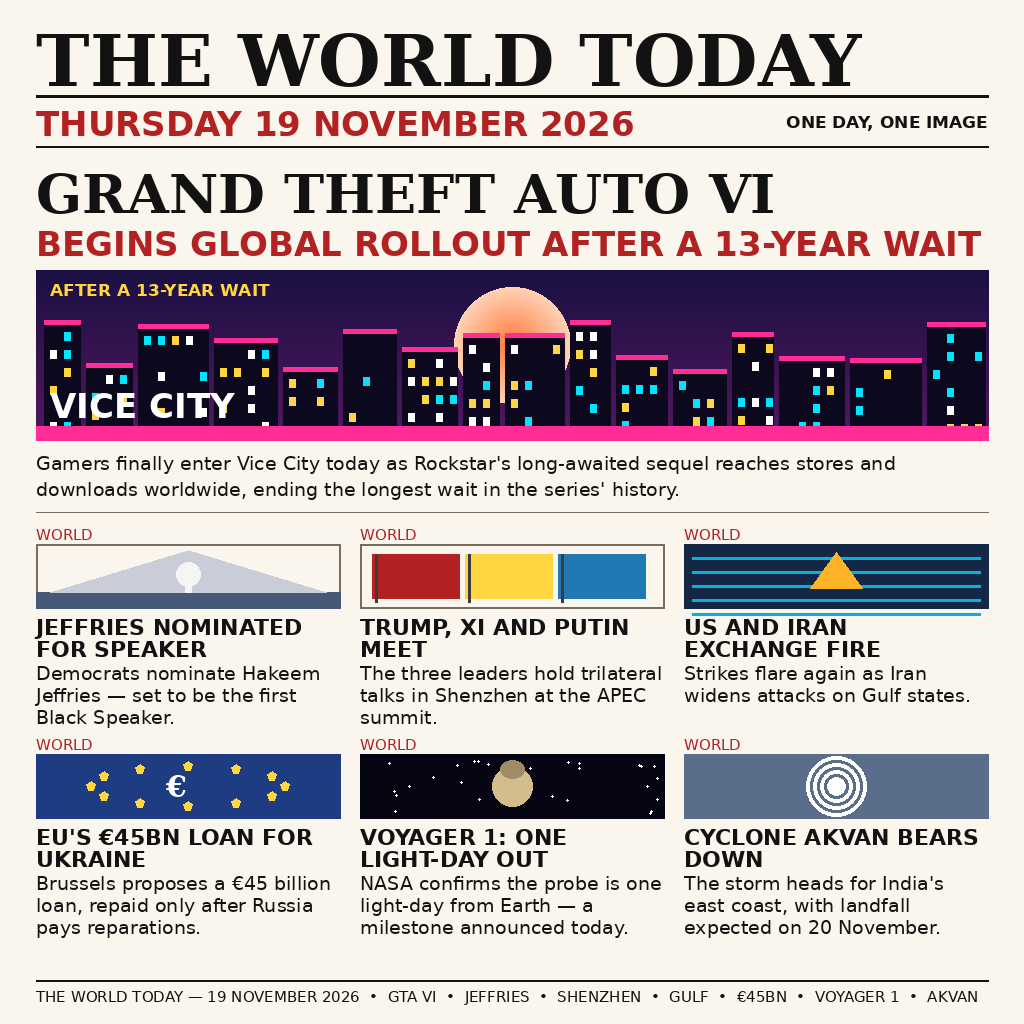
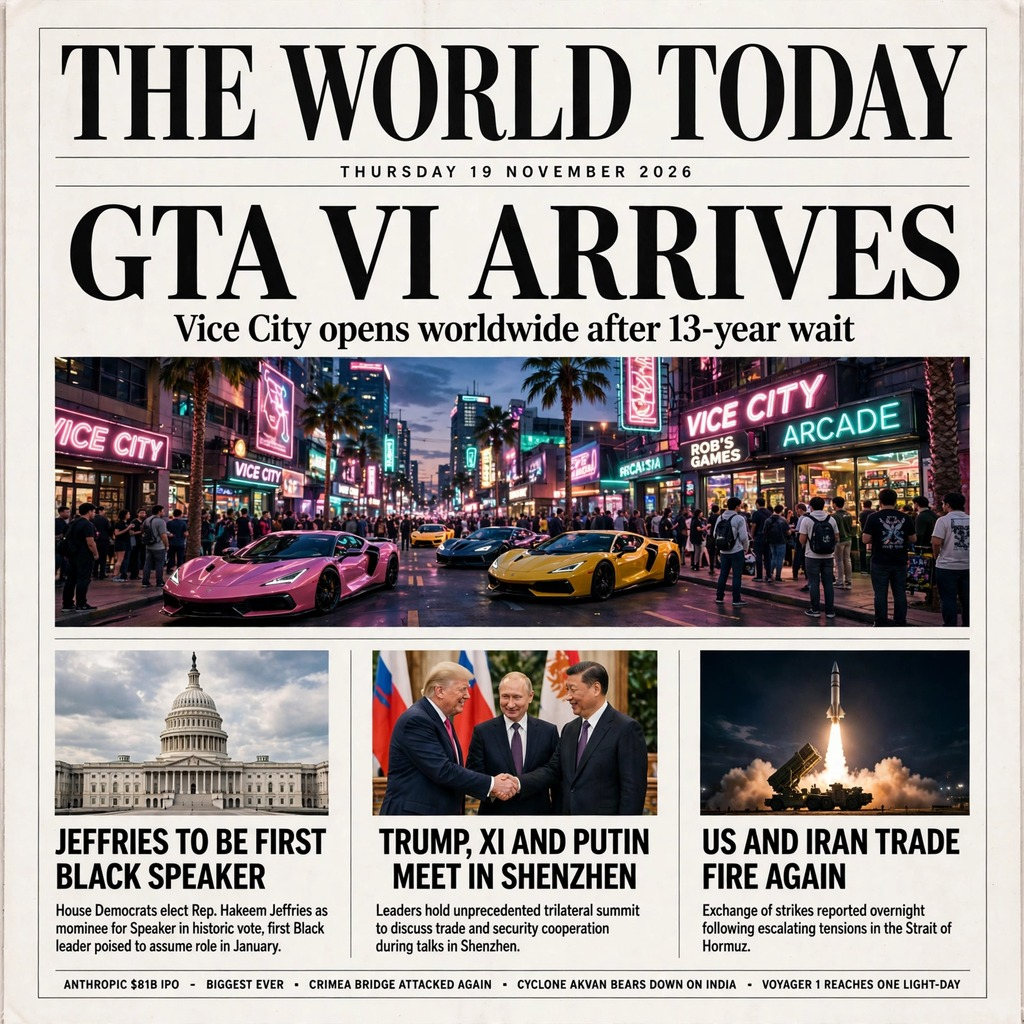
Front page image (media-generated, 1024x1024) + main.py copies it to output

diff --git a/main.py b/main.py
@@ -1,43 +1,33 @@
-#!/usr/bin/env python3
-"""Entry point for the news-image-20261119 bounty.
-
-The front page artwork is produced by draw_frontpage.py and stored in this
-repository as entry.png. This program's only job is to place that image
-where the judge expects it and confirm it meets the size cap.
-
-Standard library only: no third-party imports, no network access.
-"""
+# News-image entry for make.fun news-image-20261119.
+# The program writes one image summing up the world's news of
+# Thursday 19 November 2026 to /output/entry.png. The image is
+# a newspaper front page: the date 19 November 2026 at the top,
+# the main story (GTA VI launching worldwide after a 13-year wait),
+# and the day's other big stories (Jeffries nominated for Speaker;
+# Trump, Xi and Putin meeting in Shenzhen; US and Iran exchanging
+# fire again; Anthropic's $81B IPO; the Crimea bridge attacked
+# again; Cyclone Akvan; Voyager 1 reaching one light-day).
+# The image itself is entry.png beside this file; the program
+# copies it to the output directory. It runs with no network,
+# Python 3.13 standard library only.
+#
+# Outside the grader's container, MAKEFUN_OUTPUT_DIR stands in
+# for /output:
+#   mkdir -p out && MAKEFUN_OUTPUT_DIR=out python3 main.py
 
 import os
 import shutil
-import sys
 
-MAX_BYTES = 1_048_576  # 1 MiB
+SRC = os.path.join(os.path.dirname(os.path.abspath(__file__)), "entry.png")
+DST_DIR = os.environ.get("MAKEFUN_OUTPUT_DIR", "/output")
 
+os.makedirs(DST_DIR, exist_ok=True)
+shutil.copyfile(SRC, os.path.join(DST_DIR, "entry.png"))
 
-def main():
-    here = os.path.dirname(os.path.abspath(__file__))
-    source = os.path.join(here, "entry.png")
-
-    if not os.path.isfile(source):
-        print("error: entry.png is missing next to main.py", file=sys.stderr)
-        return 1
-
-    target_dir = os.environ.get("MAKEFUN_OUTPUT_DIR", "/output")
-    os.makedirs(target_dir, exist_ok=True)
-    target = os.path.join(target_dir, "entry.png")
-
-    shutil.copyfile(source, target)
-
-    size = os.path.getsize(target)
-    print(f"entry.png -> {target} ({size} bytes)")
-    if size > MAX_BYTES:
-        print(f"error: entry.png is {size} bytes, over the 1 MiB cap",
-              file=sys.stderr)
-        return 1
-    print("OK: entry.png is within the 1 MiB limit")
-    return 0
-
-
-if __name__ == "__main__":
-    raise SystemExit(main())
+# Confirm the output is a real image file within the gate's limits
+# (at most 1 MiB and 1024 by 1024 pixels). The bundled entry.png
+# is a 1024x1024 JPEG, 359,081 bytes, so both limits hold.
+out_path = os.path.join(DST_DIR, "entry.png")
+size = os.path.getsize(out_path)
+assert size <= 1024 * 1024, f"entry.png too large: {size} bytes"
+print(f"wrote {out_path} ({size} bytes)")
